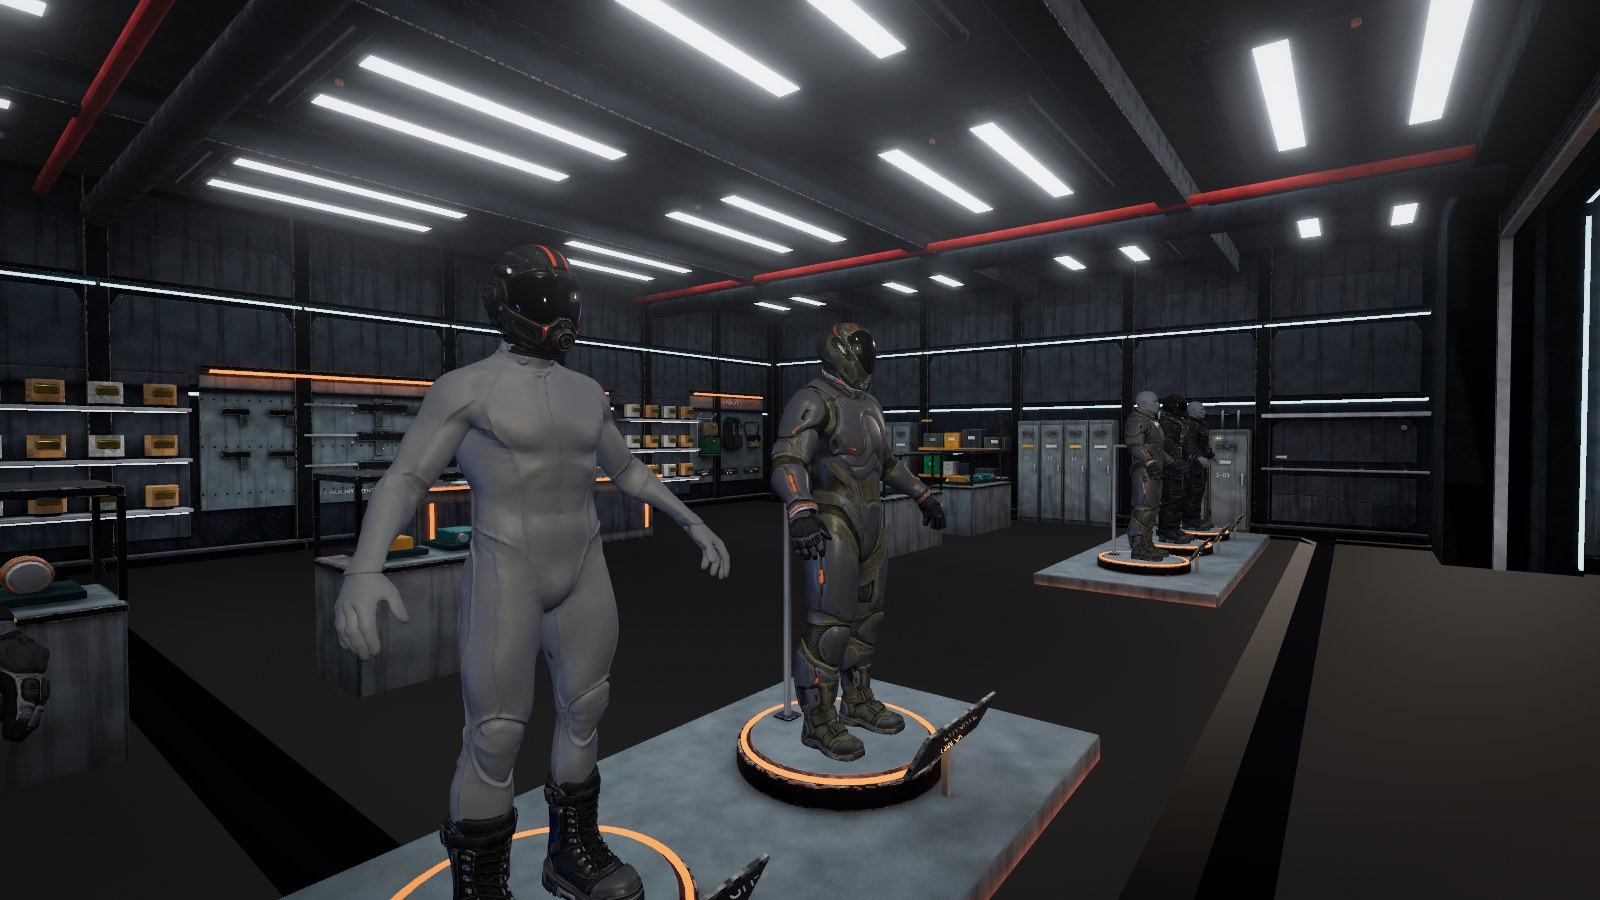
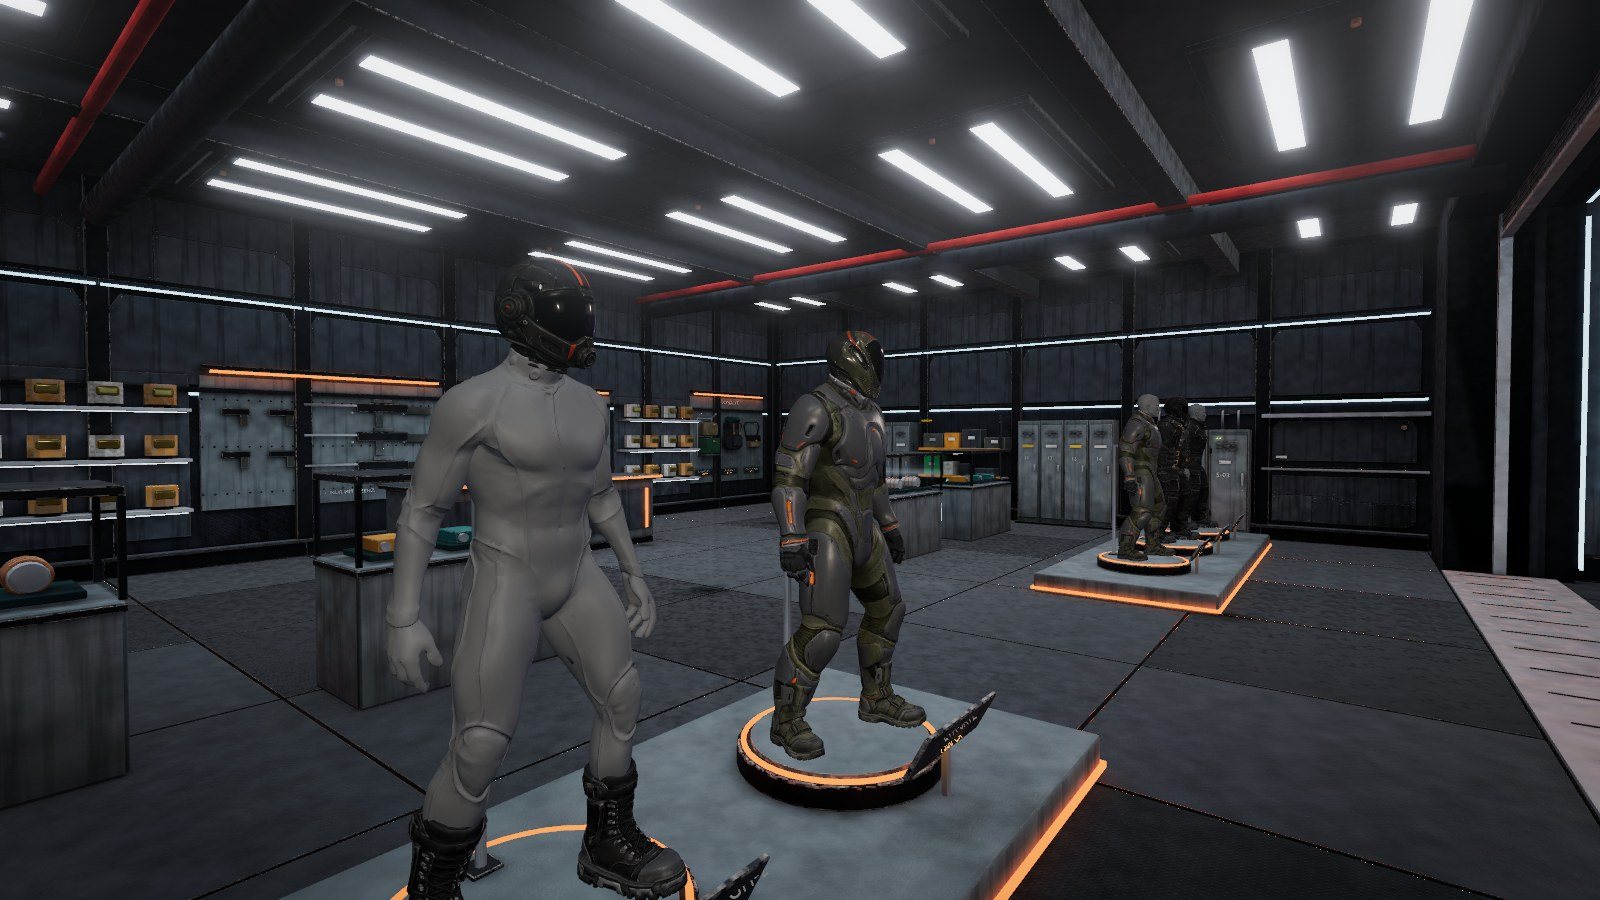
Alpha 1.68: Hangar der Bastion überarbeitet, zwei Ebenen
Versionszeile, Neuigkeit mit Bildern aus dem Spiel. Die Deckbilder der
Neuigkeit zu 1.67 sind neu aufgenommen (der Boden war dort durch einen
Fehler der Aufnahme fast schwarz).

Vor der Freigabe in der gebauten Fassung gestartet: Weiterspielen zu Fuß
im Hangar der Bastion, neuer Hangar geladen, keine Fehler.

diff --git a/index.html b/index.html
@@ -75,7 +75,7 @@
     </div>
     <div class="hint" id="mAcc" style="margin-top:14px"></div>
     <div class="gpuHint hidden" id="mGpu"></div>
-    <div class="ver">Alpha 1.67 · Forum, Hangarbuchten, drei Schiffe</div>
+    <div class="ver">Alpha 1.68 · Hangar neu, zwei Ebenen auf der Bastion</div>
   </div>
 </div>
 

diff --git a/website/src/content/neuigkeiten/2026-11-27-alpha-1-68.md b/website/src/content/neuigkeiten/2026-11-27-alpha-1-68.md
@@ -1,0 +1,60 @@
+---
+titel: Der Hangar der Bastion ist überarbeitet, und die Bucht hat ihre eigene Ebene
+datum: 2026-11-27T17:00:00
+version: Alpha 1.68
+kurz: Der Hangar der Bastion hat deutlich mehr Detail bekommen, von Lichtmasten und Bodengerät an den Stellplätzen bis zu Laufstegen unter dem Dach, und sein Licht ist dreimal so fein gerechnet. Deine Hangarbucht liegt jetzt auf einer eigenen Ebene. Zum Forum auf Deck 3 fährt ein Aufzug.
+bild: ../../assets/bilder/hangar-168-halle.jpg
+---
+
+Nach dem neuen Deck 3 war der Hangar der Bastion an der Reihe. Dazu kommt eine Änderung am Weg zwischen Bucht und Deck.
+
+## Der Hangar
+
+Die Halle ist dieselbe, 184 m breit und 42 m hoch, mit drei Stellplätzen. Neu ist, was in ihr steht und wie sie beleuchtet ist.
+
+![Blick vom Ausgang zum Tor](../../assets/bilder/hangar-168-halle.jpg)
+
+- **An den Stellplätzen:** Lichtmasten, Bodenstromaggregate, Scherenbühnen, Werkzeugschränke, Frachtstapel und Löschkarren. An jedem Platz steht ein Leuchtkasten mit seiner Nummer.
+- **Am Boden:** ein Fahrweg hinter den Stellplätzen, ein Zebrastreifen vom Ausgang zum mittleren Platz, Entfernungsmarken, Feuer um die Aufsetzkreise, dazu Brand- und Reifenspuren.
+- **An den Wänden:** Türen, Lüftungen und Schaltschränke hinter der Galerie, Lageanzeigen, Steigtrassen und Rohre. Wandfluter strahlen die großen Wandfelder von unten warm an.
+- **Unter dem Dach:** zwei Laufstege zwischen den Stellplätzen, Sprinkler und Kabelbahnen. Die Hallenleuchten strahlen jetzt auch nach oben, erst damit sieht man das Tragwerk.
+- **Am Tor:** Feldprojektoren am Rahmen, Antriebe auf dem Sturz, Leitfeuer und eine Haltelinie.
+- **Hinter den Plätzen:** links eine Werkstatt mit einem Ersatztriebwerk auf dem Gestell und einem Schwenkkran, rechts der Frachtumschlag mit Gabelstapler.
+
+![Gerät am mittleren Stellplatz](../../assets/bilder/hangar-168-stellplatz.jpg)
+
+![Die Längswand mit Galerie, Wandflutern und Lageanzeigen](../../assets/bilder/hangar-168-wand.jpg)
+
+![Die Werkstatt hinter Stellplatz 1](../../assets/bilder/hangar-168-werkstatt.jpg)
+
+Das Licht der Halle ist vorberechnet. Diese Rechnung ist jetzt dreimal so fein wie bisher, im Dach fünfmal. Der Boden ist heller, und Flecken, Rost- und Laufspuren, die im Hangar bisher fehlten, sind jetzt zu sehen. Der Hangar ist dadurch von 58 auf 85 MB gewachsen; geladen wird er wie bisher im Hintergrund.
+
+![Die Halle von oben](../../assets/bilder/hangar-168-uebersicht.jpg)
+
+## Zwei Ebenen
+
+Bisher ging man von der Hangarbucht zu Fuß ins Forum. Wer mit dem Aufzug in seine Bucht fuhr, stand danach wieder vor demselben Deck. Jetzt hat die Bastion zwei Ebenen:
+
+| Ebene | Was dort liegt |
+|---|---|
+| **Hangarebene** | deine Hangarbucht, der Hangarzugang und eine Vorhalle mit zwei Aufzügen |
+| **Deck 3** | das Forum mit Treffpunkt, Läden und Einsatzzentrale |
+
+![Die Vorhalle der Hangarebene](../../assets/bilder/ebenen-168-hangarebene.jpg)
+
+- Der Aufzug **DECK 3** auf der Hangarebene fährt mit <kbd>E</kbd> hinauf zum Forum.
+- Auf Deck 3 heißt derselbe Aufzug **HANGARBUCHTEN**. Dort wählst du deine Bucht, nimmst Einladungen an oder lädst Gäste ein.
+- Der Aufzug **QUARTIERE** steht auf beiden Ebenen. Nach dem Quartier kommst du auf der Ebene an, von der du gefahren bist.
+- Die Wegmarke am Bildschirmrand führt über den Aufzug, und der Spielstand merkt sich deine Ebene.
+
+![Der Aufzug nach Deck 3](../../assets/bilder/ebenen-168-aufzug.jpg)
+
+![Deck 3: Wo der Hangarzugang war, steht jetzt eine Wand](../../assets/bilder/ebenen-168-deck3.jpg)
+
+Im Mehrspieler gehört die ganze Hangarebene zu deiner Bucht. Im Hangarzugang und in der Vorhalle siehst du also nur, wer in derselben Bucht ist. Auf Deck 3 sehen sich alle.
+
+## Gut zu wissen
+
+- Eisenkrone und Pumpwerk sind unverändert. Dort führt der Hangar weiter direkt aufs Deck.
+- In der Ferne funkeln am Hallenboden noch einzelne helle Punkte. Das ist bekannt.
+- Die Bilder zum Forum in der [Neuigkeit zu Alpha 1.67](/neuigkeiten/2026-11-27-alpha-1-67/) zeigten einen fast schwarzen Boden. Das lag an der Aufnahme, nicht am Spiel. Sie sind ersetzt.

diff --git a/docs/hangar.md b/docs/hangar.md
@@ -12,6 +12,9 @@ Alle Dateien liegen in `asset-src/neu/bastion/`.
 
 ## Zweite Runde (27.11.2026)
 
+Freigegeben in Alpha 1.68 (27.11.2026), zusammen mit den zwei Ebenen (`docs/deck3.md`). Vor der Freigabe in der gebauten Fassung gestartet
+(„Weiterspielen“ mit einem Spielstand zu Fuß im Hangar): Menü, Laden, neuer Hangar, keine Fehler.
+
 Der Nutzer nach dem neuen Deck 3: „Das Deck ist gut geworden. Hangar auch nochmal überarbeiten mit mehr Details und dann mit möglichst guter
 Qualität ins Spiel, MB spielen keine Rolle, dürfen 50-100 sein“.
 
@@ -85,6 +88,8 @@ Gemessen vor der Runde: 7 bis 14 Bildpunkte je Meter in der Halle, 2 im Dach, di
 - Bildzeit im Testfenster (versteckter Tab, 1024 × 768, `render` plus `finish`): vorher 10 bis 17 ms, jetzt 10 bis 13 ms. Ein Unterschied
   ist dort nicht messbar; im sichtbaren Fenster des Nutzers und auf einem schwachen Rechner ist es nicht gemessen.
 - Grafikspeicher der Lichtkarten (gerechnet, nicht gemessen): etwa 460 MB statt 230 MB.
+- Gebaute Fassung im versteckten Tab: Die Navigation dorthin wurde abgelehnt. Es ging mit einem Rahmen im schon offenen Tab, in den die
+  Seite samt Ersatz für `requestAnimationFrame` geschrieben wird (`document.write`); ein Bild kommt mit `toDataURL` direkt nach dem Bildaufruf.
 - Story-Bot durch Prolog und fünf Kapitel ohne erzwungene Schritte und ohne Fehler; Laufprobe beider Ebenen (`__walkRund`) ohne
   unerreichbare Punkte; der Wisent steht auf dem mittleren Platz frei neben dem Gerät.
 

diff --git a/docs/deck3.md b/docs/deck3.md
@@ -10,6 +10,8 @@ Spiel zu bringen.“
 
 ## Zwei Ebenen (seit dem 27.11.2026)
 
+Freigegeben in Alpha 1.68 (27.11.2026).
+
 Der Nutzer nach der Freigabe von Alpha 1.67: „Bei dem Hangar für die Spieler. Dort soll kein Deck sein, nur Hangarzugang und die beiden Aufzüge.
 Nicht nochmal Treffpunkt und Läden“. Vorher ging man vom Hangar durch Korridor und Vorhalle zu Fuß ins Forum; wer mit dem Aufzug in seine
 Bucht fuhr, stand danach wieder vor demselben Deck.
